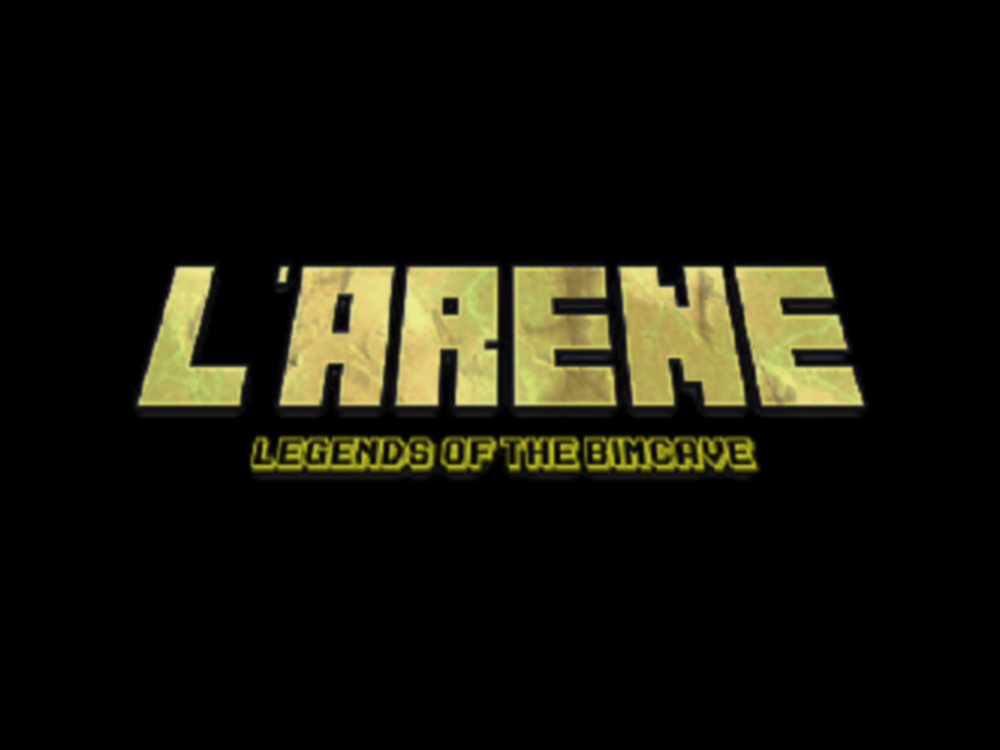
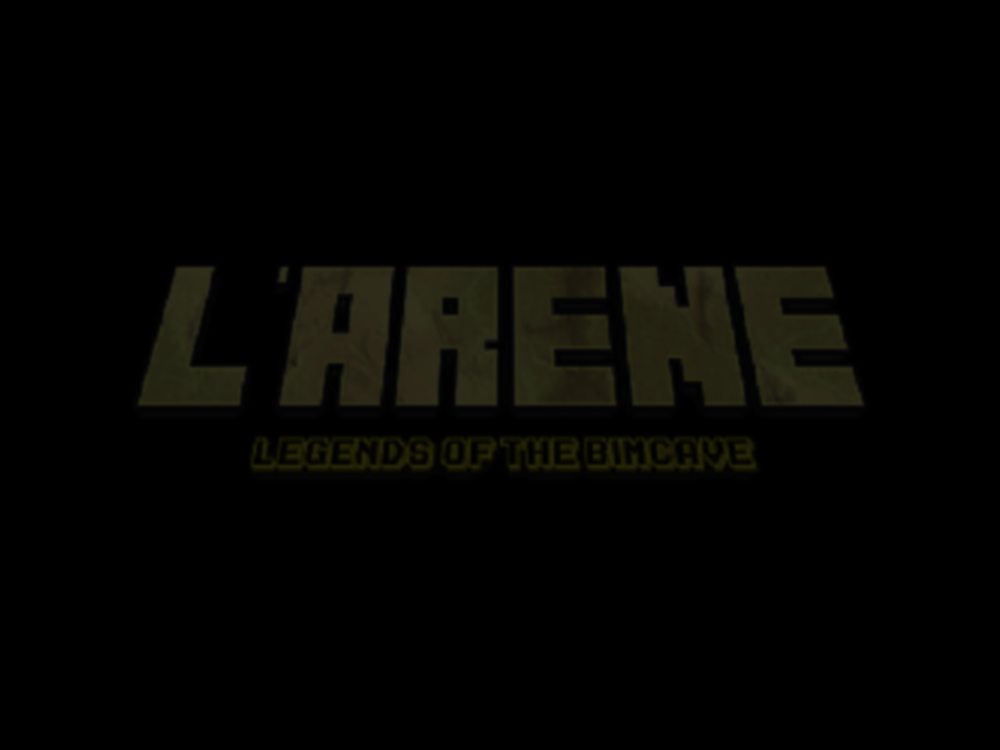
added bg image

Changed region(s): [[0.279, 0.3373, 0.868, 0.552], [0.248, 0.5827, 0.775, 0.644], [0.124, 0.3373, 0.248, 0.552]]

diff --git a/LARENE.py b/LARENE.py
@@ -311,7 +311,7 @@ class Level(object):
         self.player = player
          
         # Background image
-        self.background = None
+        self.background = pygame.image.load('img/LareneBG.png')#None
 
         level = lvl 
  
